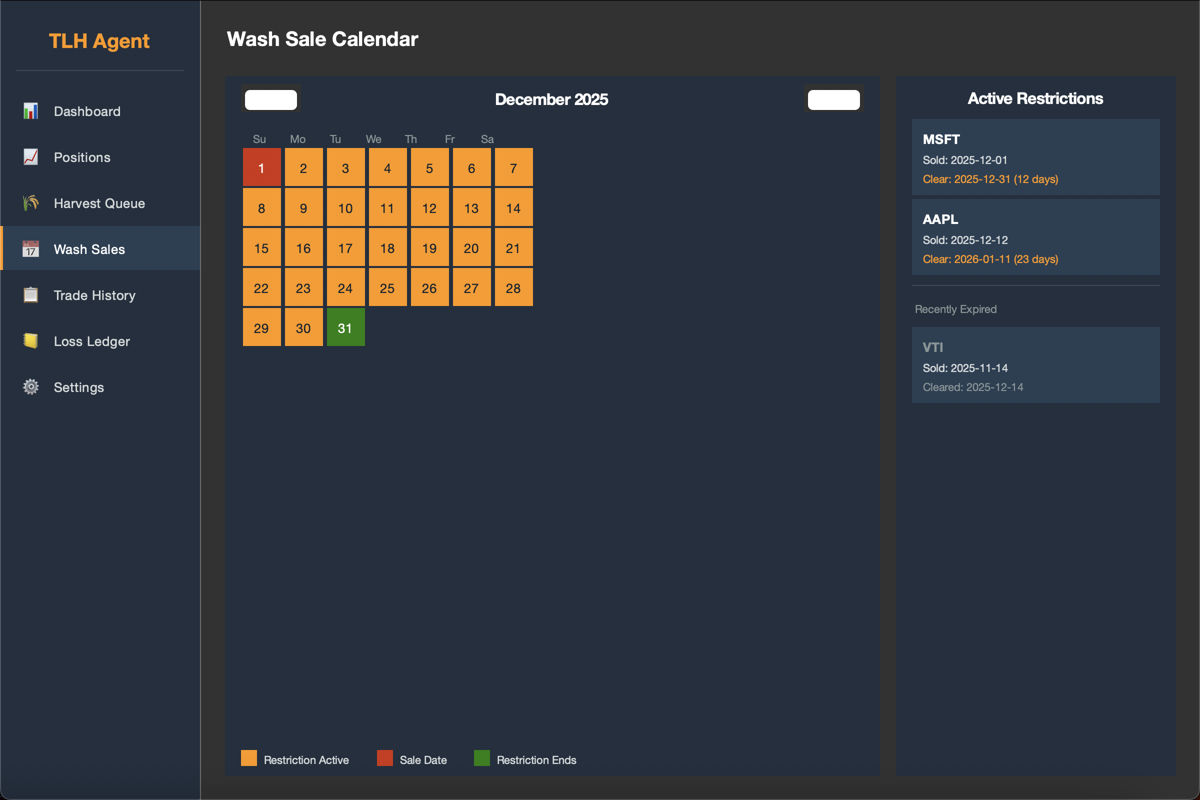
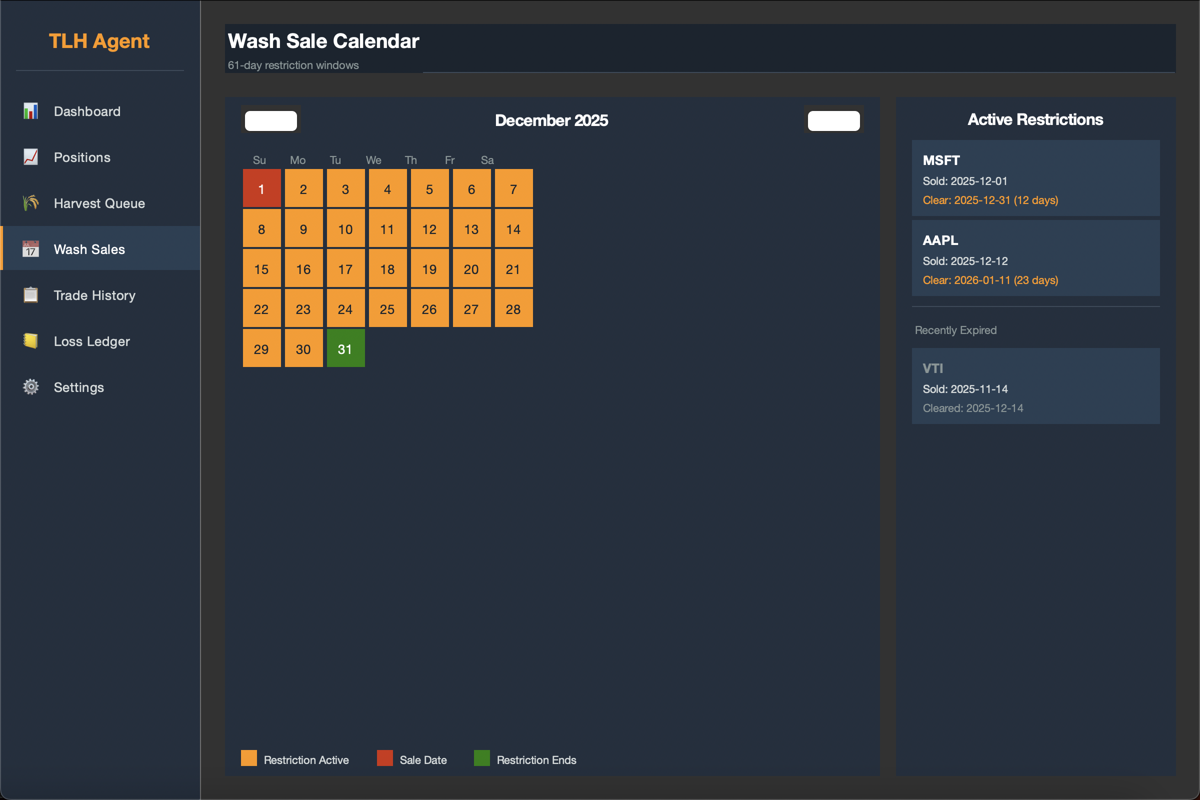
Add professional PageHeader component with subtitles
- Create reusable PageHeader with title, subtitle, and action buttons
- Add horizontal underline separator for visual hierarchy

diff --git a/src/tlh_agent/ui/components/page_header.py b/src/tlh_agent/ui/components/page_header.py
@@ -1,0 +1,136 @@
+"""Page header component for screen titles."""
+
+import tkinter as tk
+
+from tlh_agent.ui.theme import Colors, Fonts, Spacing
+
+
+class PageHeader(tk.Frame):
+    """A prominent page header with title and optional action buttons.
+
+    Provides consistent, professional header styling across all screens.
+    """
+
+    def __init__(
+        self,
+        parent: tk.Widget,
+        title: str,
+        subtitle: str | None = None,
+    ) -> None:
+        """Initialize the page header.
+
+        Args:
+            parent: The parent widget.
+            title: The main page title.
+            subtitle: Optional subtitle or description.
+        """
+        super().__init__(parent, bg=Colors.BG_PRIMARY)
+
+        # Left side: title and subtitle
+        self._title_section = tk.Frame(self, bg=Colors.BG_PRIMARY)
+        self._title_section.pack(side=tk.LEFT, fill=tk.Y)
+
+        # Title with larger, bolder font
+        self._title = tk.Label(
+            self._title_section,
+            text=title,
+            font=Fonts.HEADING,
+            fg=Colors.TEXT_PRIMARY,
+            bg=Colors.BG_PRIMARY,
+            anchor=tk.W,
+        )
+        self._title.pack(anchor=tk.W)
+
+        # Subtitle if provided
+        if subtitle:
+            self._subtitle = tk.Label(
+                self._title_section,
+                text=subtitle,
+                font=Fonts.CAPTION,
+                fg=Colors.TEXT_MUTED,
+                bg=Colors.BG_PRIMARY,
+                anchor=tk.W,
+            )
+            self._subtitle.pack(anchor=tk.W)
+        else:
+            self._subtitle = None
+
+        # Right side: action buttons container
+        self._actions = tk.Frame(self, bg=Colors.BG_PRIMARY)
+        self._actions.pack(side=tk.RIGHT, fill=tk.Y)
+
+        # Bottom border/underline for visual separation
+        self._border = tk.Frame(self, bg=Colors.BORDER, height=1)
+        self._border.pack(side=tk.BOTTOM, fill=tk.X, pady=(Spacing.MD, 0))
+
+    @property
+    def actions(self) -> tk.Frame:
+        """Get the actions container for adding buttons."""
+        return self._actions
+
+    def add_action_button(
+        self,
+        text: str,
+        command: callable,
+        primary: bool = False,
+    ) -> tk.Button:
+        """Add an action button to the header.
+
+        Args:
+            text: Button text.
+            command: Click handler.
+            primary: If True, uses accent styling.
+
+        Returns:
+            The created button.
+        """
+        if primary:
+            btn = tk.Button(
+                self._actions,
+                text=text,
+                font=Fonts.BODY,
+                fg=Colors.BG_PRIMARY,
+                bg=Colors.ACCENT,
+                activebackground=Colors.ACCENT_HOVER,
+                activeforeground=Colors.BG_PRIMARY,
+                relief=tk.FLAT,
+                cursor="hand2",
+                padx=Spacing.MD,
+                pady=Spacing.XS,
+                command=command,
+            )
+        else:
+            btn = tk.Button(
+                self._actions,
+                text=text,
+                font=Fonts.BODY,
+                fg=Colors.TEXT_PRIMARY,
+                bg=Colors.BG_TERTIARY,
+                activebackground=Colors.BORDER_LIGHT,
+                activeforeground=Colors.TEXT_PRIMARY,
+                relief=tk.FLAT,
+                cursor="hand2",
+                padx=Spacing.MD,
+                pady=Spacing.XS,
+                command=command,
+            )
+
+        btn.pack(side=tk.LEFT, padx=(Spacing.SM, 0))
+        return btn
+
+    def set_title(self, title: str) -> None:
+        """Update the title text.
+
+        Args:
+            title: New title text.
+        """
+        self._title.configure(text=title)
+
+    def set_subtitle(self, subtitle: str) -> None:
+        """Update the subtitle text.
+
+        Args:
+            subtitle: New subtitle text.
+        """
+        if self._subtitle:
+            self._subtitle.configure(text=subtitle)

diff --git a/src/tlh_agent/ui/screens/settings.py b/src/tlh_agent/ui/screens/settings.py
@@ -4,6 +4,7 @@ import tkinter as tk
 from tkinter import ttk
 
 from tlh_agent.ui.base import BaseScreen
+from tlh_agent.ui.components.page_header import PageHeader
 from tlh_agent.ui.theme import Colors, Fonts, Spacing
 
 
@@ -12,43 +13,13 @@ class SettingsScreen(BaseScreen):
 
     def _setup_ui(self) -> None:
         """Set up the settings layout."""
-        # Header row
-        header_frame = ttk.Frame(self, style="TFrame")
-        header_frame.pack(fill=tk.X, pady=(0, Spacing.LG))
-
-        header = ttk.Label(header_frame, text="Settings", style="Heading.TLabel")
-        header.pack(side=tk.LEFT)
-
-        # Action buttons
-        btn_frame = tk.Frame(header_frame, bg=Colors.BG_PRIMARY)
-        btn_frame.pack(side=tk.RIGHT)
-
-        tk.Button(
-            btn_frame,
-            text="Reset to Defaults",
-            font=Fonts.BODY,
-            fg=Colors.TEXT_PRIMARY,
-            bg=Colors.BG_TERTIARY,
-            relief=tk.FLAT,
-            padx=Spacing.MD,
-            pady=Spacing.XS,
-            cursor="hand2",
-            command=self._on_reset,
-        ).pack(side=tk.LEFT, padx=(0, Spacing.SM))
-
-        tk.Button(
-            btn_frame,
-            text="Save",
-            font=Fonts.BODY_BOLD,
-            fg=Colors.BG_PRIMARY,
-            bg=Colors.ACCENT,
-            activebackground=Colors.ACCENT_HOVER,
-            relief=tk.FLAT,
-            padx=Spacing.LG,
-            pady=Spacing.XS,
-            cursor="hand2",
-            command=self._on_save,
-        ).pack(side=tk.LEFT)
+        # Header
+        header = PageHeader(
+            self, title="Settings", subtitle="Configure harvesting rules and preferences"
+        )
+        header.pack(fill=tk.X, pady=(0, Spacing.LG))
+        header.add_action_button("Reset", self._on_reset)
+        header.add_action_button("Save", self._on_save, primary=True)
 
         # Scrollable settings area
         canvas = tk.Canvas(self, bg=Colors.BG_PRIMARY, highlightthickness=0)

diff --git a/src/tlh_agent/ui/screens/trade_history.py b/src/tlh_agent/ui/screens/trade_history.py
@@ -8,6 +8,7 @@ from tlh_agent.data.mock_data import MockDataFactory, Trade
 from tlh_agent.ui.base import BaseScreen
 from tlh_agent.ui.components.card import Card
 from tlh_agent.ui.components.data_table import ColumnDef, DataTable
+from tlh_agent.ui.components.page_header import PageHeader
 from tlh_agent.ui.theme import Colors, Fonts, Spacing
 
 
@@ -16,29 +17,12 @@ class TradeHistoryScreen(BaseScreen):
 
     def _setup_ui(self) -> None:
         """Set up the trade history layout."""
-        # Header row
-        header_frame = ttk.Frame(self, style="TFrame")
-        header_frame.pack(fill=tk.X, pady=(0, Spacing.LG))
-
-        header = ttk.Label(header_frame, text="Trade History", style="Heading.TLabel")
-        header.pack(side=tk.LEFT)
-
-        # Export button
-        export_btn = tk.Button(
-            header_frame,
-            text="Export CSV",
-            font=Fonts.BODY,
-            fg=Colors.TEXT_PRIMARY,
-            bg=Colors.BG_TERTIARY,
-            activebackground=Colors.BORDER_LIGHT,
-            activeforeground=Colors.TEXT_PRIMARY,
-            relief=tk.FLAT,
-            cursor="hand2",
-            padx=Spacing.MD,
-            pady=Spacing.XS,
-            command=self._on_export,
+        # Header
+        header = PageHeader(
+            self, title="Trade History", subtitle="Executed trades and harvest events"
         )
-        export_btn.pack(side=tk.RIGHT)
+        header.pack(fill=tk.X, pady=(0, Spacing.LG))
+        header.add_action_button("Export CSV", self._on_export)
 
         # Filters card
         filters_card = Card(self, title="Filters")

diff --git a/src/tlh_agent/ui/screens/positions.py b/src/tlh_agent/ui/screens/positions.py
@@ -2,12 +2,12 @@
 
 import tkinter as tk
 from decimal import Decimal
-from tkinter import ttk
 from typing import Any
 
 from tlh_agent.data.mock_data import MockDataFactory, Position
 from tlh_agent.ui.base import BaseScreen
 from tlh_agent.ui.components.data_table import ColumnDef, DataTable
+from tlh_agent.ui.components.page_header import PageHeader
 from tlh_agent.ui.theme import Colors, Fonts, Spacing
 
 
@@ -16,21 +16,10 @@ class PositionsScreen(BaseScreen):
 
     def _setup_ui(self) -> None:
         """Set up the positions screen layout."""
-        # Header row
-        header_frame = ttk.Frame(self, style="TFrame")
-        header_frame.pack(fill=tk.X, pady=(0, Spacing.LG))
-
-        header = ttk.Label(header_frame, text="Positions", style="Heading.TLabel")
-        header.pack(side=tk.LEFT)
-
-        # Export button
-        export_btn = ttk.Button(
-            header_frame,
-            text="Export CSV",
-            style="TButton",
-            command=self._on_export,
-        )
-        export_btn.pack(side=tk.RIGHT)
+        # Header
+        header = PageHeader(self, title="Positions", subtitle="Portfolio holdings and lot details")
+        header.pack(fill=tk.X, pady=(0, Spacing.LG))
+        header.add_action_button("Export CSV", self._on_export)
 
         # Summary bar
         self.summary_frame = tk.Frame(self, bg=Colors.BG_SECONDARY)

diff --git a/src/tlh_agent/ui/screens/loss_ledger.py b/src/tlh_agent/ui/screens/loss_ledger.py
@@ -6,6 +6,7 @@ from tkinter import ttk
 
 from tlh_agent.data.mock_data import MockDataFactory
 from tlh_agent.ui.base import BaseScreen
+from tlh_agent.ui.components.page_header import PageHeader
 from tlh_agent.ui.theme import Colors, Fonts, Spacing
 
 
@@ -14,21 +15,12 @@ class LossLedgerScreen(BaseScreen):
 
     def _setup_ui(self) -> None:
         """Set up the loss ledger layout."""
-        # Header row
-        header_frame = ttk.Frame(self, style="TFrame")
-        header_frame.pack(fill=tk.X, pady=(0, Spacing.LG))
-
-        header = ttk.Label(header_frame, text="Loss Ledger", style="Heading.TLabel")
-        header.pack(side=tk.LEFT)
-
-        # Export button
-        export_btn = ttk.Button(
-            header_frame,
-            text="Export Tax Report",
-            style="TButton",
-            command=self._on_export,
+        # Header
+        header = PageHeader(
+            self, title="Loss Ledger", subtitle="Carryforward losses and tax benefits"
         )
-        export_btn.pack(side=tk.RIGHT)
+        header.pack(fill=tk.X, pady=(0, Spacing.LG))
+        header.add_action_button("Export Tax Report", self._on_export)
 
         # Carryforward summary card
         summary_card = tk.Frame(self, bg=Colors.BG_SECONDARY)

diff --git a/src/tlh_agent/ui/screens/harvest_queue.py b/src/tlh_agent/ui/screens/harvest_queue.py
@@ -7,6 +7,7 @@ from typing import Any
 from tlh_agent.data.mock_data import HarvestOpportunity, MockDataFactory
 from tlh_agent.ui.base import BaseScreen
 from tlh_agent.ui.components.data_table import ColumnDef, DataTable
+from tlh_agent.ui.components.page_header import PageHeader
 from tlh_agent.ui.theme import Colors, Fonts, Spacing
 
 
@@ -15,16 +16,15 @@ class HarvestQueueScreen(BaseScreen):
 
     def _setup_ui(self) -> None:
         """Set up the harvest queue layout."""
-        # Header row
-        header_frame = ttk.Frame(self, style="TFrame")
-        header_frame.pack(fill=tk.X, pady=(0, Spacing.LG))
+        # Header
+        header = PageHeader(
+            self, title="Harvest Queue", subtitle="Review and execute harvest opportunities"
+        )
+        header.pack(fill=tk.X, pady=(0, Spacing.LG))
 
-        header = ttk.Label(header_frame, text="Harvest Queue", style="Heading.TLabel")
-        header.pack(side=tk.LEFT)
-
-        # Total savings display
+        # Total savings display in header actions
         self.total_savings_label = tk.Label(
-            header_frame,
+            header.actions,
             text="Potential Savings: $0.00",
             font=Fonts.BODY_BOLD,
             fg=Colors.SUCCESS_TEXT,

diff --git a/src/tlh_agent/ui/screens/dashboard.py b/src/tlh_agent/ui/screens/dashboard.py
@@ -1,11 +1,11 @@
 """Dashboard screen with portfolio summary and key metrics."""
 
 import tkinter as tk
-from tkinter import ttk
 
 from tlh_agent.data.mock_data import MockDataFactory
 from tlh_agent.ui.base import BaseScreen
 from tlh_agent.ui.components.card import Card, MetricCard
+from tlh_agent.ui.components.page_header import PageHeader
 from tlh_agent.ui.theme import Colors, Fonts, Spacing
 
 
@@ -15,8 +15,10 @@ class DashboardScreen(BaseScreen):
     def _setup_ui(self) -> None:
         """Set up the dashboard layout."""
         # Header
-        header = ttk.Label(self, text="Dashboard", style="Heading.TLabel")
-        header.pack(anchor=tk.W, pady=(0, Spacing.LG))
+        header = PageHeader(
+            self, title="Dashboard", subtitle="Portfolio overview and harvest opportunities"
+        )
+        header.pack(fill=tk.X, pady=(0, Spacing.LG))
 
         # Summary cards row - use grid for equal width columns
         cards_frame = tk.Frame(self, bg=Colors.BG_PRIMARY)

diff --git a/src/tlh_agent/ui/screens/wash_calendar.py b/src/tlh_agent/ui/screens/wash_calendar.py
@@ -7,6 +7,7 @@ from tkinter import ttk
 
 from tlh_agent.data.mock_data import MockDataFactory, WashSaleRestriction
 from tlh_agent.ui.base import BaseScreen
+from tlh_agent.ui.components.page_header import PageHeader
 from tlh_agent.ui.theme import Colors, Fonts, Spacing
 
 
@@ -15,12 +16,9 @@ class WashCalendarScreen(BaseScreen):
 
     def _setup_ui(self) -> None:
         """Set up the wash calendar layout."""
-        # Header row
-        header_frame = ttk.Frame(self, style="TFrame")
-        header_frame.pack(fill=tk.X, pady=(0, Spacing.LG))
-
-        header = ttk.Label(header_frame, text="Wash Sale Calendar", style="Heading.TLabel")
-        header.pack(side=tk.LEFT)
+        # Header
+        header = PageHeader(self, title="Wash Sale Calendar", subtitle="61-day restriction windows")
+        header.pack(fill=tk.X, pady=(0, Spacing.LG))
 
         # Main content - two column layout
         content_frame = ttk.Frame(self, style="TFrame")
